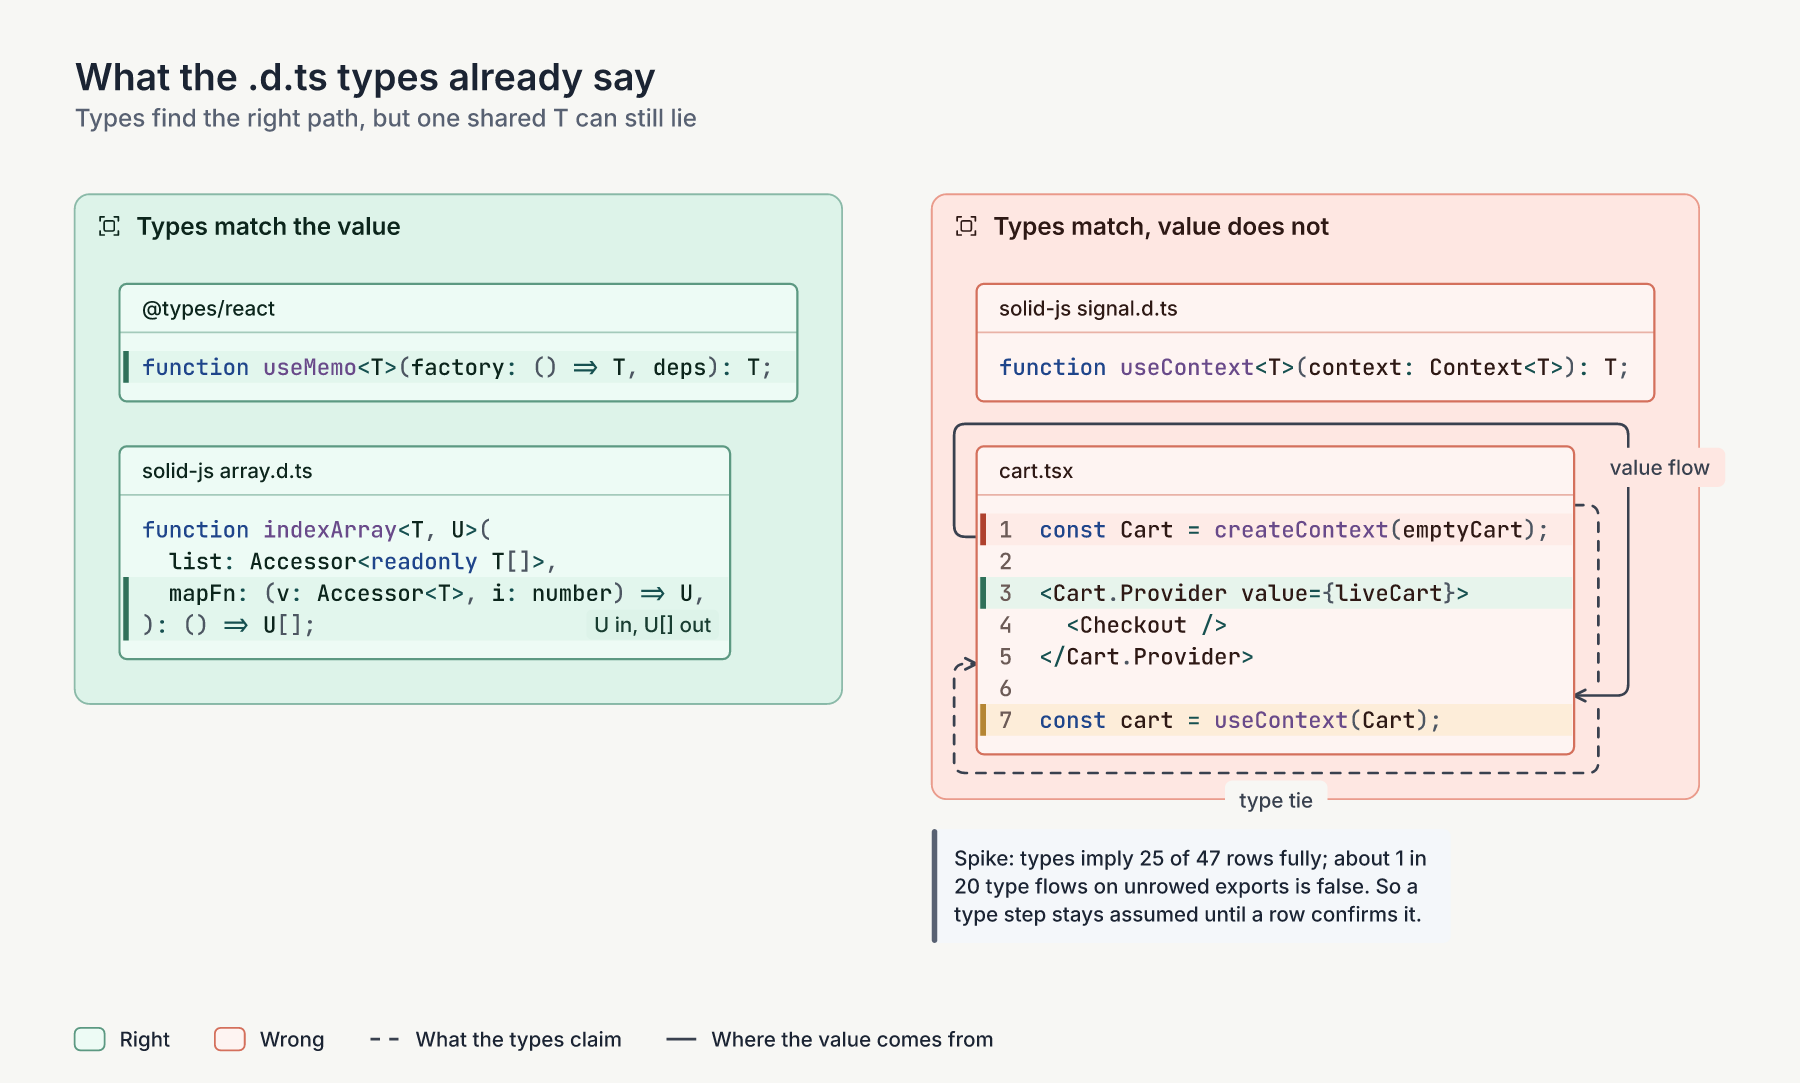
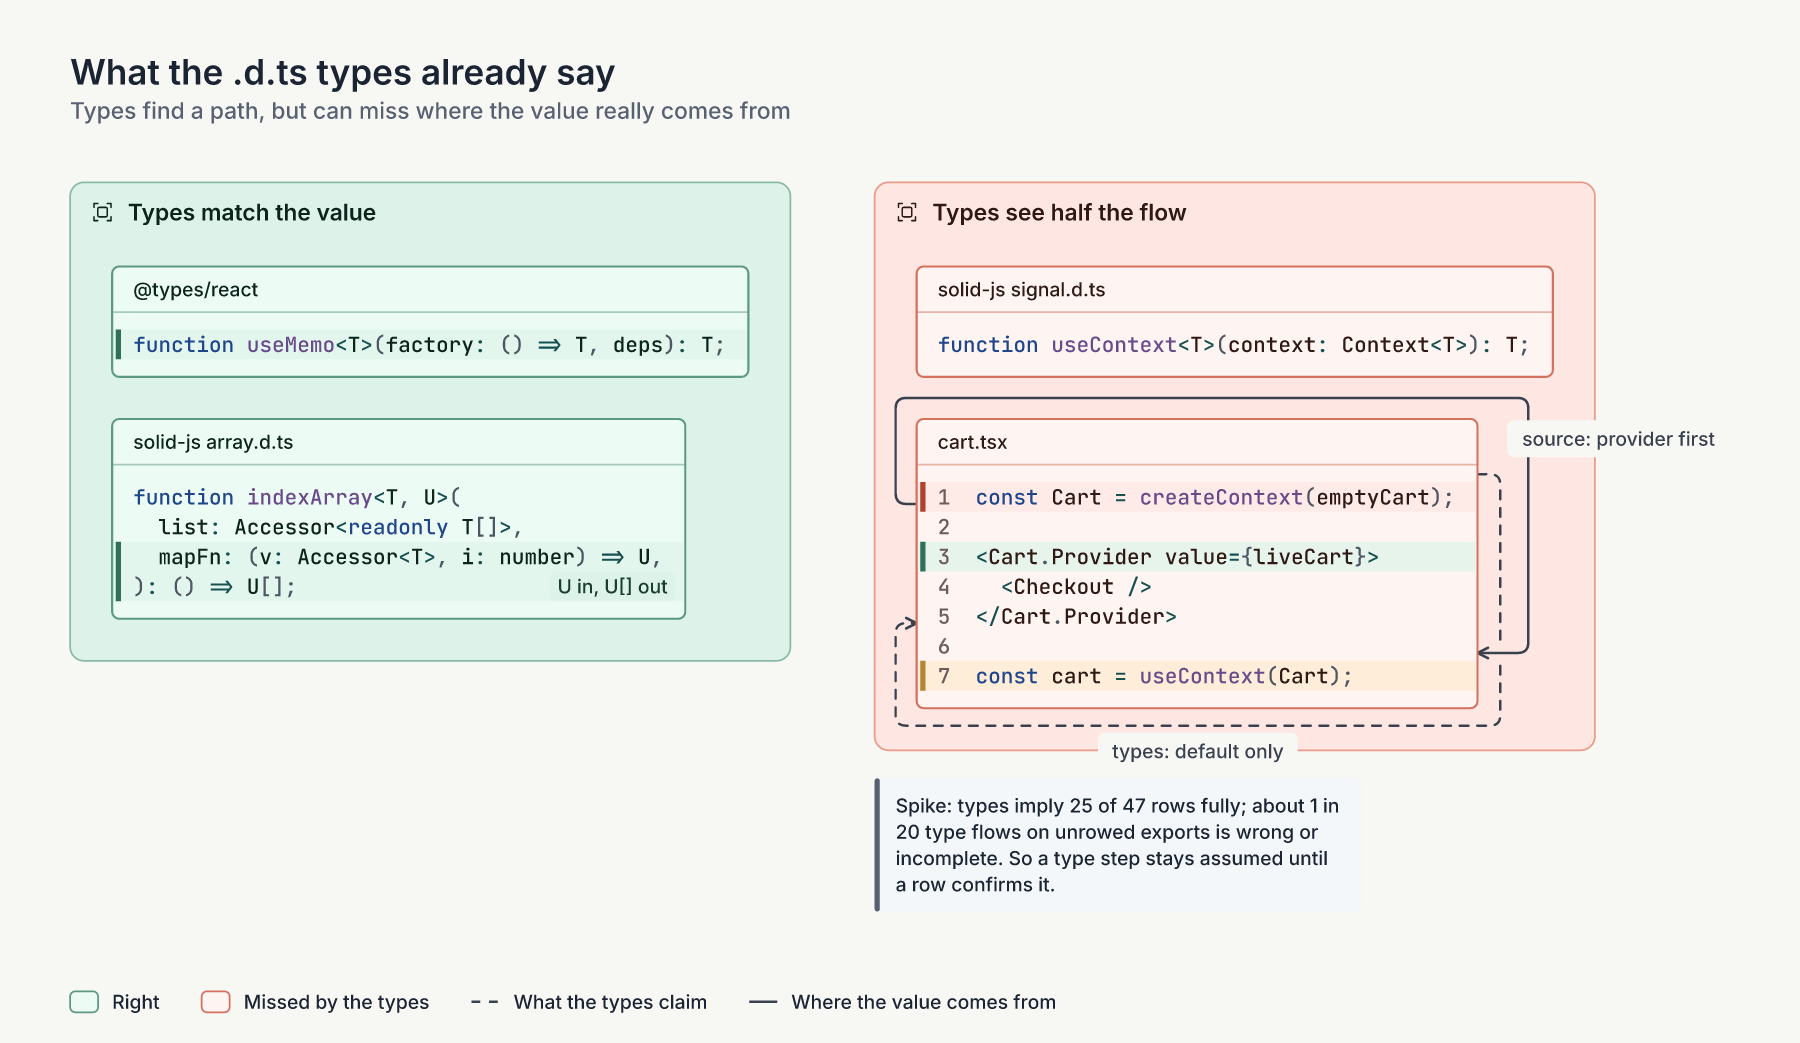
docs(research): apply library intake to modelled libraries; correct the useContext claim

Changed region(s): [[0.0311, 0.1534, 0.9644, 0.8591], [0.0311, 0.0614, 0.4356, 0.1227], [0.0311, 0.9511, 0.5911, 0.9818]]

diff --git a/docs/research/dataflow-library-models-2026-11/README.md b/docs/research/dataflow-library-models-2026-11/README.md
@@ -24,7 +24,7 @@ These five pictures show the scope on real code. Read them before the numbers.
 
 ![Access paths replace one-off fields](diagrams/7-access-paths.png)
 
-**What the types can and cannot do.** `useMemo` and `indexArray` say in their signatures that the callback's return becomes the result, so no row is needed to find the path. `useContext` says the result has the default value's type, but the value comes from the nearest provider. So a type-proposed step stays `assumed`.
+**What the types can and cannot do.** `useMemo` and `indexArray` say in their signatures that the callback's return becomes the result, so no row is needed to find the path. `useContext` ties the result only to the context object, which holds the default. Solid's source shows the value is the nearest provider's value, and the default only when no provider exists. The types see half the flow, so a type-proposed step stays `assumed`.
 
 ![What the .d.ts types already say](diagrams/8-what-types-say.png)
 
@@ -185,10 +185,10 @@ So 25 of 47 resolved rows (53%) are redundant with the types, and 12 more (26%) 
 Of 146 callable exports in these modules with no row, 57 show a type flow. Spot checks:
 
 - Right, and useful: `indexArray` (the open `s-index-array` gap), `useSyncExternalStore`, `catchError`, `runWithOwner`, `reconcile`, zustand `useStore`, `useRef`, `createElement`.
-- Wrong: `useContext` in React and in Solid. `useContext<T>(ctx: Context<T>): T` ties the result's type to the argument, but the value comes from the nearest provider, not from the default in `createContext`. `useSubmission` is half right: its `result` holds the action's awaited return, but the type ties the whole result to the action.
+- Incomplete: `useContext` in React and in Solid. `useContext<T>(ctx: Context<T>): T` ties the result to the context object, so only the default in `createContext` reaches it. The source (`Owner.context[context.id] ?? context.defaultValue` in Solid) shows the nearest provider's value comes first; the types miss that flow. `useSubmission` is half right: its `result` holds the action's awaited return, but the type ties the whole result to the action.
 - Too wide: the option scan finds `queryFn`, but also `select`, `placeholderData`, `initialData` and `structuralSharing`, and on Solid Query every `QueryClient` method. Some of those do feed `data`; some do not.
 
-The key result for honesty: **a shared type parameter proves the same type, not the same value.** About 1 in 20 type flows is false, and `useContext` is a common call. A type-inferred step can make a trace's path right. It must never make the outcome `ok` by itself.
+The key result for honesty: **a shared type parameter proves the same type, not the same value.** About 1 in 20 type flows is wrong or incomplete, and `useContext` is a common call. A type-inferred step can make a trace's path right. It must never make the outcome `ok` by itself.
 
 ![Types propose, rows confirm](diagrams/2-types-propose-rows-confirm.png)
 
@@ -199,19 +199,19 @@ Scores: coverage is patterns that work with no new row; risk is the chance of a 
 | Option | Coverage without new rows | False-`ok` risk | Code deleted | Residue |
 | --- | --- | --- | --- | --- |
 | **A. Access-path vocabulary.** Replace the 20 ad hoc fields with CodeQL-style paths: `Argument[0].ReturnValue → ReturnValue`, `Argument[1] → Argument[0].Parameter[0]`, `Argument[0].Member[queryFn].ReturnValue → ReturnValue.Member[data]`. One emitter interprets every path. | Same as today; new libraries in shapes 1 to 7 become rows-only | None: a row is still a claim a person reviewed | `framework-flows.ts` readers (about 110 of 146), option emitters (85), `connectFrameworkFlow`, row-specific branches in `value-origin.ts`; about 250 lines, offset by a path emitter of about 100 | Shapes 8 to 10 |
-| **B. Type-proposed flow.** Derive candidate paths from generics at each unmodelled library call. Emit them with a new proof kind (`type-signature`, strength `assumed`). | High: the 25 implied rows, plus `indexArray`, `useSyncExternalStore` and other unrowed exports, gain the right path | Low if the strength stays `assumed`; about 5% of proposals are false paths | None at first. Each implied row becomes a 1-line confirmation; its shape fields go | Terminals, origins, cells, slots, context, and choosing among option keys |
+| **B. Type-proposed flow.** Derive candidate paths from generics at each unmodelled library call. Emit them with a new proof kind (`type-signature`, strength `assumed`). | High: the 25 implied rows, plus `indexArray`, `useSyncExternalStore` and other unrowed exports, gain the right path | Low if the strength stays `assumed`; about 5% of proposals are wrong or incomplete | None at first. Each implied row becomes a 1-line confirmation; its shape fields go | Terminals, origins, cells, slots, context, and choosing among option keys |
 | **C. Summaries from `node_modules` JS.** Analyse library code and cache a summary per package version. | Medium for small utilities (lodash, debounce); low for React, Solid and zustand, whose behaviour lives in a scheduler or a runtime | Medium: dynamic code and bundles defeat the analysis; a wrong summary looks proven | None | Every framework; plus memory cost on top of a 2 to 3 GB Program |
 | **D. Wider default rule.** Treat every unmodelled package call as an `assumed` pass-through of all arguments. | Already true for dropped calls (`connectExternalCall`) and library-typed callees (`isExternalCall`) | None (stays `assumed`) | None | Gives wrong ends: the React Query diagnosis shows `getQueryData` ending at the key literal, not the cache |
 | **E. Generated rows for review.** A script prints proposed rows for a package from its types, or from the stops a survey reports. | Same as B, but only after a person merges the rows | None: a person reviews each row | None | Review time per package |
 | **F. Cell and slot concepts.** Two engine concepts with row shapes: a *cell* (a call makes a value; named handles write it; named handles read it) and a *slot* (the framework calls a component's attribute or child function with named values). | zustand, signals, stores, reducers, resources, `useSubmission` and `mutate`/`refetch` become cell rows; `For`, `Index`, `Show`, `Dynamic`, `ErrorBoundary`, `Suspense` become slot rows | None: rows are claims | Most of the 245 cell lines and 210 slot lines, offset by two emitters of about 150 lines together | Context (shape 10) stays code; it is one rule for both frameworks |
-| **G. Summaries down to a primitive floor.** Analyse library JS only until it reaches primitives the engine models (`useSyncExternalStore`, `createSignal`, closures, `Promise`). zustand's `vanilla.ts` is about 100 lines of closure over `setState` and `getState`. | Good for small stores built on primitives (zustand); poor for Solid's compiled JSX runtime | Medium: a summary looks proven when the analysis misses dynamic code | None | Needs the installed library at the right version; slots stay code |
+| **G. Summaries down to a primitive floor.** Analyse library JS only until it reaches primitives the engine models (`useSyncExternalStore`, `createSignal`, closures, `Promise`). zustand's `vanilla.ts` is about 100 lines of closure over `setState` and `getState`. | Good for libraries built on primitives: zustand, lodash, the router's `createAsync`, and Solid's own `For`, `Index` and `Show`, which are 5 to 15 lines on `createMemo` and `mapArray` (see 5c) | Medium: a summary looks proven when the analysis misses dynamic code | None | Needs the installed library at the right version; slots stay code |
 | **H. Keyed-store shape.** One rule: a write and a read join when they reach the same store identity with the same constant key. | Context (Provider to `useContext`, keyed by the context object), the query cache (`setQueryData`, `getQueryData`, `invalidateQueries`), `localStorage`, event emitters, the open `v-map-set` gap | Low if a computed key (`["items", props.listId]`) stays `assumed` | The 107 context lines, offset by one emitter | Rows that say which calls write, read or clear a keyed store |
 | **I. Runtime observation.** Wrap library exports during tests or catalog runs; record which argument shows up in which callback parameter or result; propose rows. | Medium, only for code paths that run | Medium: seen on some inputs is not proven | None | Needs runnable code; review of every proposal |
 | **J. Rows written by an agent, gated by fixtures.** An agent writes each row with a negative annotated fixture; the exhaustive `@reaches` and `@stop` check is the gate. | Same as today's rows | Low: the negative fixture must fail without the row's limit | None | It fills the vocabulary; it does not shrink it |
 
 ### Recommendation
 
-Do A, B, F and H, and use E and J to write rows. Skip C, G and I for now: a summary or an observation looks proven when it is not, and both need installed or running code.
+Do A, B, F and H, and use E and J to write rows. Skip C and I: C analyses too much, and I needs running code. G (summaries down to a primitive floor) is the strongest later step; section 5c shows which modelled libraries it would cover.
 
 - **A** stops vocabulary growth. Every new library step that fits shapes 1 to 7 becomes data.
 - **B** makes unmodelled libraries trace along the right path, so a trace reaches its real end with an honest `assumed`. A 1-line confirmation row then promotes a proposal to `ok`. Types propose; rows confirm.
@@ -254,6 +254,38 @@ React and Solid themselves are different. `useState` in `react.development.js` c
 This changes option C's score. Analysing *all* of `node_modules` is still too costly, but **summarising userland libraries down to a short list of framework primitives** is source-only, needs no rows for zustand-like libraries, and matches what Pysa and CodeQL do. A summary computed from source is a proof, so it can be `ok` where the analysis is complete, and `assumed` where it meets dynamic code.
 
 Suggested spike: summarise `zustand` from `node_modules` source down to a `useSyncExternalStore` row, and compare the edges with today's `connectStores` on the `zustand-store.tsx` fixture. It needs the closure-variable rule first.
+
+## 5c. Library intake applied to what we model today
+
+The intake question: does this library have a body we can read, or is it a primitive (a runtime, a renderer's dispatcher, a scheduler, I/O)? Only primitives need hand rows. I read the installed source of each modelled library (`solid-js` 1.x in bible-daily, `@tanstack/react-query` 4.44 and `zustand` in family-finances, `lodash` in recipes-modern).
+
+![What each modelled library is made of](diagrams/10-library-layers.png)
+
+| Library | What its source is | Rows today | Custom code today | Verdict |
+| --- | --- | ---: | ---: | --- |
+| React hooks, `memo`, `forwardRef` | Calls into `dispatcher`, which the renderer sets at run time | 9 | state pairs 33 | Primitive: keep rows |
+| Solid `createSignal`, `createMemo`, effects, `createStore`, `splitProps`, `mergeProps` | The reactive core: a scheduler and `Proxy` objects | 14 | | Primitive: keep rows |
+| Context (React and Solid) | Solid: `Owner.context[context.id] ?? context.defaultValue`. React: the dispatcher | 0 | 107 | Primitive: one keyed-store row |
+| I/O (fetch, fs, DB, print, Python boundaries) | Ends in native code or the network | 161 | | Primitive: keep rows |
+| Solid `For`, `Index`, `Show`, `children` | 5 to 15 lines each on `createMemo` and `mapArray` | 0 | 128 | Built on primitives |
+| Solid `createSelector`, `on`, `mapArray`, `createDeferred`, `onMount` | Plain JS on the reactive core | 6 | | Built on primitives |
+| Router `createAsync`, `query`, `cache`, `action` | `createAsync` is `createResource(() => fn())`; `query` keeps a module `Map` keyed by name and arguments | 8 | resource 140 (shared with Solid) | Built on primitives; the `Map` is a keyed store with a computed key |
+| zustand | 80 lines: a closure `let state` and `useSyncExternalStoreWithSelector` | 1 | 70 | Built on primitives |
+| React Query, Solid Query | About 1,800 lines of classes in `query-core`: an observer on `useSyncExternalStore`, a cache `Map` keyed by a hash of the query key, a `Promise` retryer | 9 | options 85 | Built on primitives, but deep; the hashed key stays `assumed` |
+| lodash, `@solid-primitives` | Closures on `setTimeout`; storage on `localStorage` | 11 | | Built on primitives |
+
+What this shows:
+
+- **23 of 58 framework rows are at the right layer.** They describe primitives that no source analysis can see through.
+- **35 of 58 rows, and about 420 of the 650 hard lines, describe code we could read.** Solid's own components are the plainest case:
+
+![Solid's For is five lines](diagrams/11-solid-for-is-five-lines.png)
+
+- **Reading the source corrects a claim.** The types made `useContext` look like "the default flows in". The source says the provider's value comes first and the default only when no provider exists. A hand rule written from types or from docs alone can get this wrong in either direction:
+
+![useContext: what the source says](diagrams/12-use-context-source.png)
+
+- **Computed keys are where honest `assumed` steps remain.** The router's `query` cache and React Query's cache both key a `Map` by a value computed at run time. Source analysis reaches the `Map` and stops there, which is the right answer.
 
 ## 6. Migration plan
 
